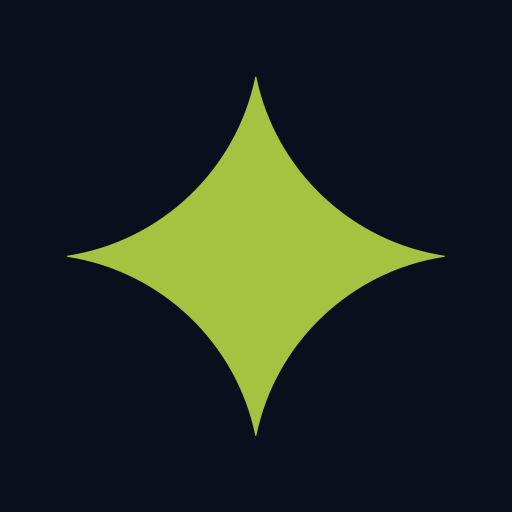
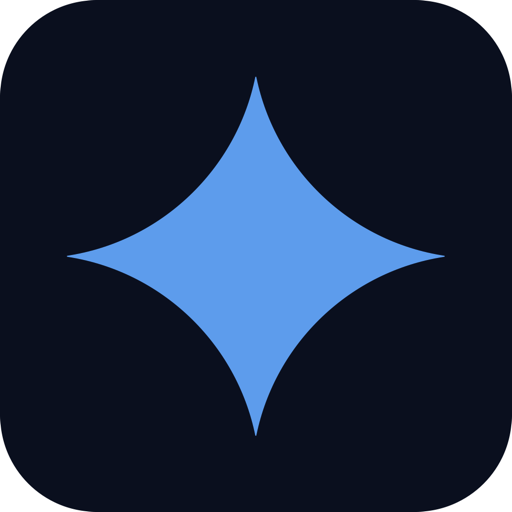
Brand color: lime → minimal blue (#5d9cec)
Updated all instances of the burst icon to use the work blue color
from the Minimal theme:

- Inline SVG in header (.brand-burst)
- favicon.svg
- icon-512.png (re-rendered from updated SVG via qlmanage)
- icon-192.png (resized from 512 via sips)
- apple-touch-icon.png (180px, resized from 512)
- favicon-32.png (32px, resized from 512)

Source rendered at 1024px master, then sips-downsampled to each
target size for clean antialiasing at every step.

diff --git a/public/index.html b/public/index.html
@@ -1519,7 +1519,7 @@ window.lrl = (function(){
   <div class="header">
     <div class="brand">
       <svg class="brand-burst" viewBox="0 0 512 512">
-        <path fill="#a7c140" d="M507.2,257.1c-125.4,19.1-225.5,115-250.7,238.3-.2.8-1.3.8-1.5,0-25.2-123.2-125.3-219.2-250.7-238.3-.9-.1-.9-1.4,0-1.5,125.4-19.1,225.5-115,250.7-238.3.2-.8,1.3-.8,1.5,0,25.2,123.2,125.3,219.2,250.7,238.3.9.1.9,1.4,0,1.5Z"/>
+        <path fill="#5d9cec" d="M507.2,257.1c-125.4,19.1-225.5,115-250.7,238.3-.2.8-1.3.8-1.5,0-25.2-123.2-125.3-219.2-250.7-238.3-.9-.1-.9-1.4,0-1.5,125.4-19.1,225.5-115,250.7-238.3.2-.8,1.3-.8,1.5,0,25.2,123.2,125.3,219.2,250.7,238.3.9.1.9,1.4,0,1.5Z"/>
       </svg>
       <div class="brand-name">LifeOS</div>
       <div class="mode-lens" id="mode-lens">
